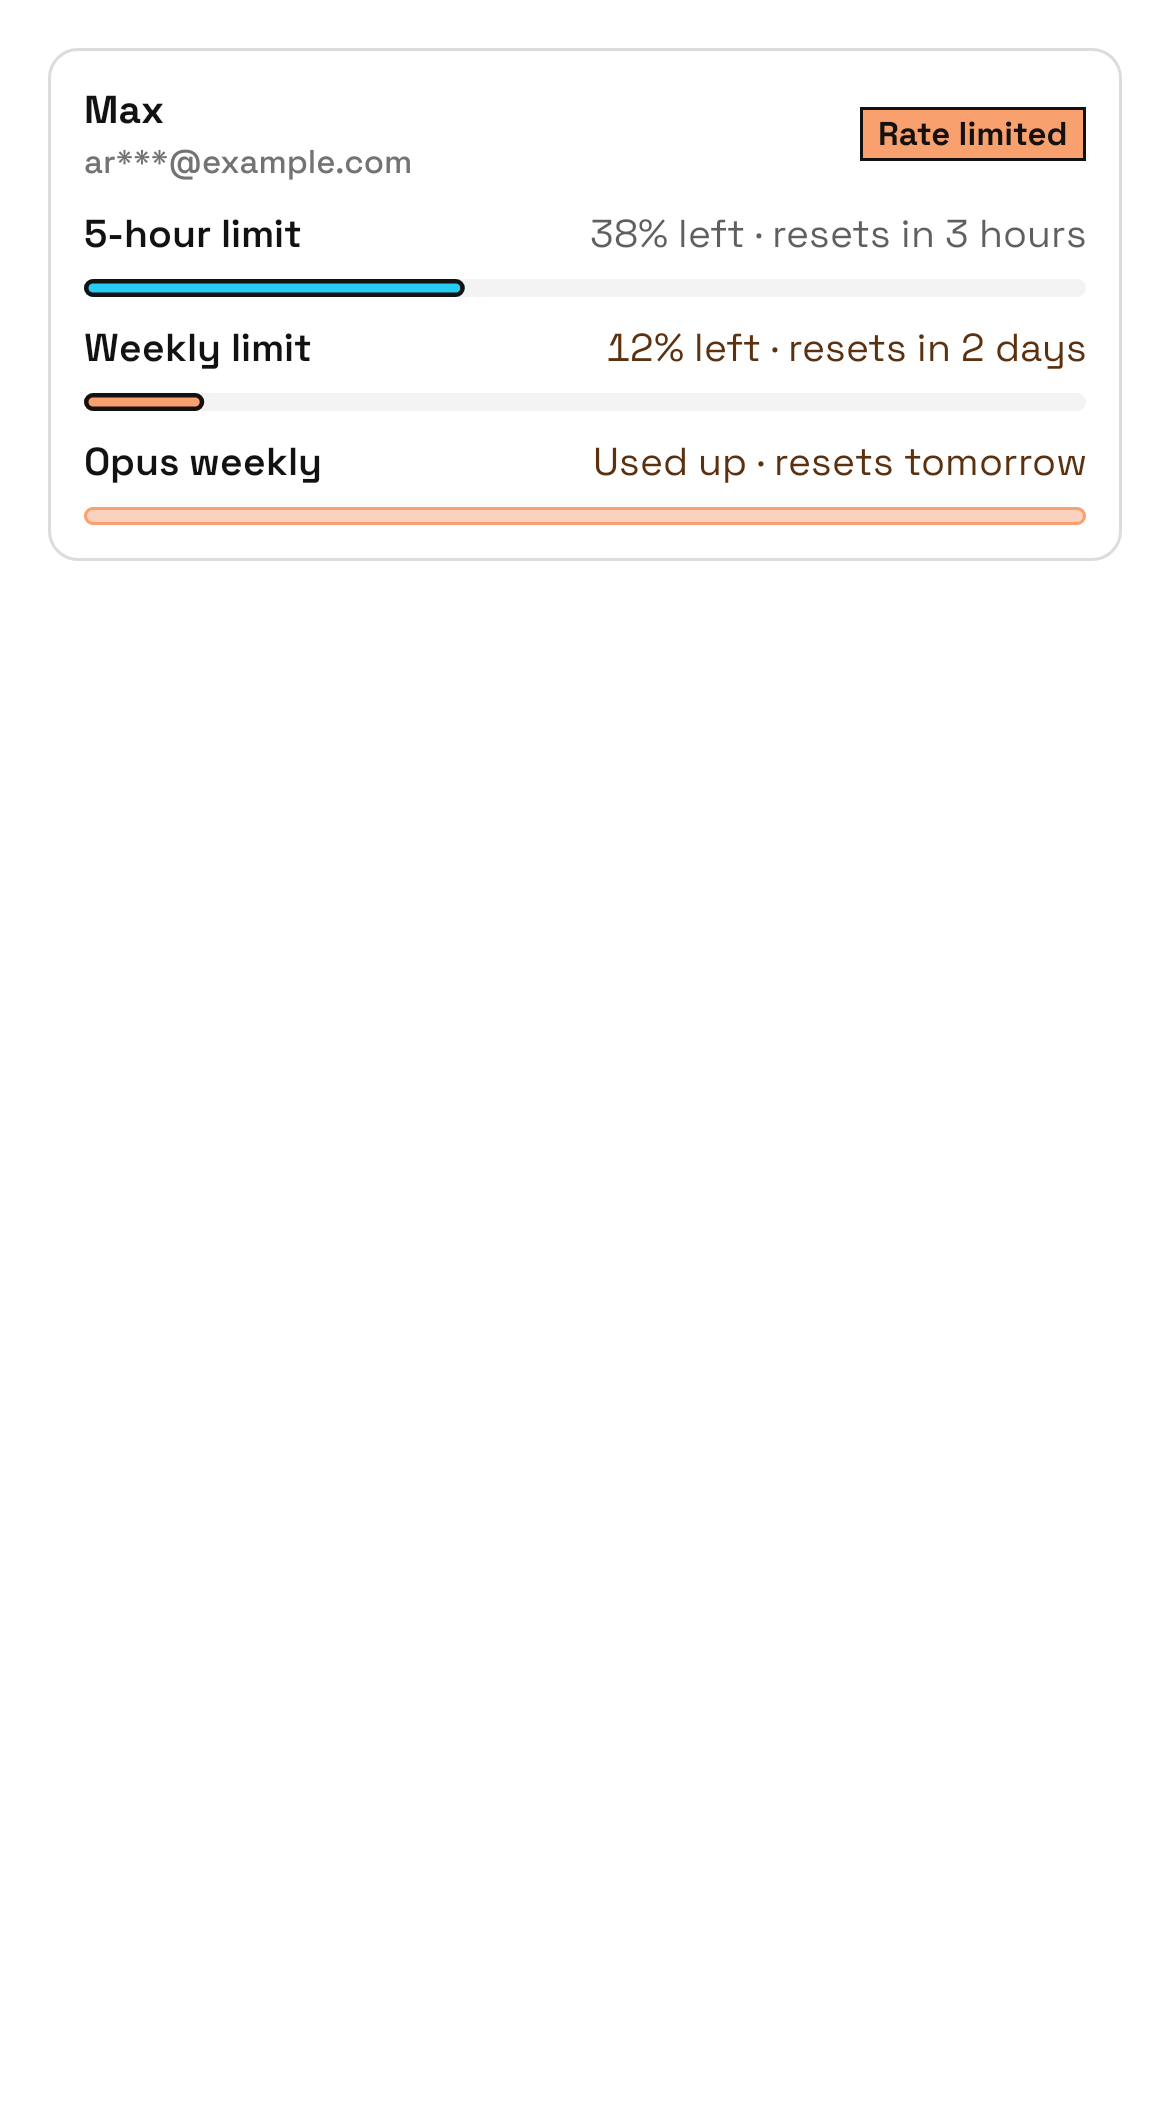
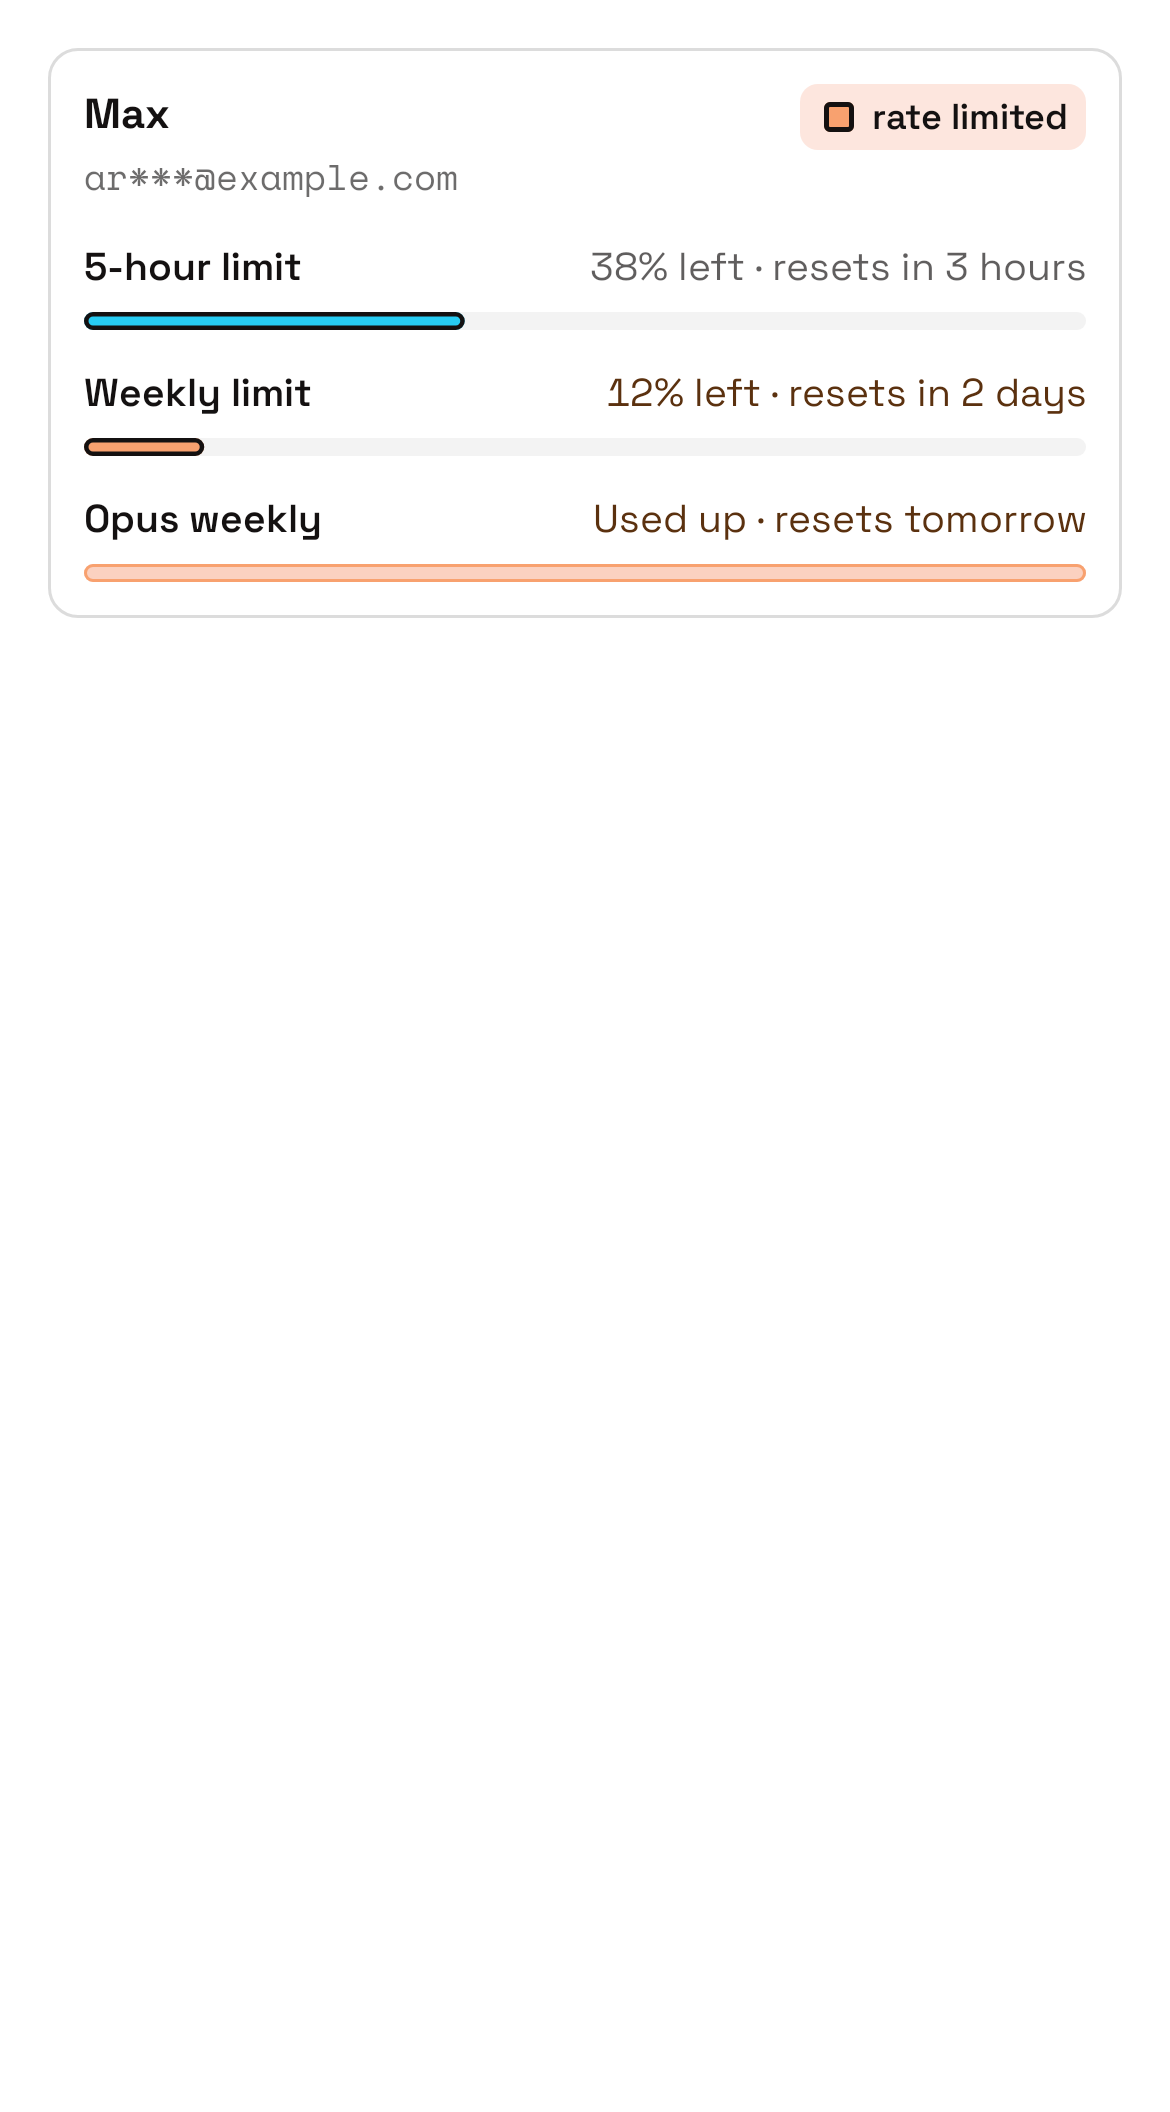
fix(members): the agent's usage card is the Computers account block
The card's head was an older hand-made copy (square black-framed badge in the
old accent colour). It now renders ComputerRuntimeUsageAccountBlock whole: plan,
account, the raft-ui soft StatusChip and the usage rows, so both places share one
implementation (artin, sindresorhus 2026-10-29).

Changed region(s): [[0.0308, 0.0312, 0.9231, 0.2812]]

diff --git a/compose/shared/src/commonMain/kotlin/build/raft/app/MembersAgentRuntimeUsage.kt b/compose/shared/src/commonMain/kotlin/build/raft/app/MembersAgentRuntimeUsage.kt
@@ -330,69 +330,10 @@ internal fun MembersRuntimeUsageAccountCard(
                 .padding(12.dp),
         verticalArrangement = Arrangement.spacedBy(8.dp)
     ) {
-        Row(
-            modifier = Modifier.fillMaxWidth(),
-            verticalAlignment = Alignment.CenterVertically,
-            horizontalArrangement = Arrangement.spacedBy(8.dp)
-        ) {
-            Column(modifier = Modifier.weight(1f), verticalArrangement = Arrangement.spacedBy(2.dp)) {
-                Text(
-                    text = account.planLabel ?: stringResource(Res.string.member_runtime_usage_account_fallback),
-                    style = RaftType.Caption.copy(fontSize = 13.sp, lineHeight = 17.sp)
-                        .withRaftFontWeight(FontWeight.Bold),
-                    color = RaftColor.TextBlack,
-                    maxLines = 1,
-                    overflow = TextOverflow.Ellipsis
-                )
-                account.identityLabel?.let { identity ->
-                    Text(
-                        text = identity,
-                        style = RaftType.Caption.copy(fontSize = 11.sp, lineHeight = 14.sp),
-                        color = RaftColor.TextMutedGray,
-                        maxLines = 1,
-                        overflow = TextOverflow.Ellipsis
-                    )
-                }
-            }
-            MembersRuntimeUsageHealthBadge(account.health)
-        }
-        if (account.health == RuntimeAccountUsageHealth.Unsupported) {
-            MembersRuntimeUsageNote(stringResource(Res.string.member_runtime_usage_unsupported))
-        }
-        // The same "X% left · resets …" line as the Computers page and the web (never "X% used").
-        account.windows.forEach { window -> ComputerRuntimeUsageWindowRow(window, timeContext) }
+        // The Computers sheet's account block: the raft-ui StatusChip and "X% left · resets …"
+        // rows, the same as the web (artin 10-29: no square badge, no "X% used").
+        ComputerRuntimeUsageAccountBlock(account, timeContext)
     }
-}
-
-@Composable
-private fun MembersRuntimeUsageHealthBadge(health: RuntimeAccountUsageHealth) {
-    val (label, color) =
-        when (health) {
-            RuntimeAccountUsageHealth.Ok -> stringResource(Res.string.member_runtime_usage_health_ok) to RaftColor.AccentLime
-            RuntimeAccountUsageHealth.RateLimited ->
-                stringResource(Res.string.member_runtime_usage_health_rate_limited) to RaftColor.AccentOrange
-            RuntimeAccountUsageHealth.ReauthRequired ->
-                stringResource(Res.string.member_runtime_usage_health_reauth_required) to RaftColor.AccentOrange
-            RuntimeAccountUsageHealth.Unsupported ->
-                stringResource(Res.string.member_runtime_usage_health_unsupported) to RaftColor.SurfaceCream
-            RuntimeAccountUsageHealth.Error ->
-                stringResource(Res.string.member_runtime_usage_health_error) to RaftColor.AccentRed
-            RuntimeAccountUsageHealth.Unknown ->
-                stringResource(Res.string.member_runtime_usage_health_unknown) to RaftColor.SurfaceCream
-        }
-    // Accent fills are stickers (fixed ink); the cream fill is a themed surface.
-    val sticker = color != RaftColor.SurfaceCream
-    Text(
-        text = label,
-        style = RaftType.Caption.copy(fontSize = 11.sp, lineHeight = 14.sp).withRaftFontWeight(FontWeight.Bold),
-        color = if (sticker) RaftColor.StickerInk else RaftColor.TextBlack,
-        maxLines = 1,
-        modifier =
-            Modifier
-                .background(color)
-                .border(RaftAppStroke.Thin, if (sticker) RaftColor.StickerInk else RaftColor.BorderBlack)
-                .padding(horizontal = 6.dp, vertical = 2.dp)
-    )
 }
 
 @Composable

diff --git a/compose/shared/src/commonMain/kotlin/build/raft/app/ComputerRuntimeUsageChip.kt b/compose/shared/src/commonMain/kotlin/build/raft/app/ComputerRuntimeUsageChip.kt
@@ -536,7 +536,7 @@ private fun ComputerRuntimeUsageSnapshot(read: RuntimeAccountUsageRead.Available
 }
 
 @Composable
-private fun ComputerRuntimeUsageAccountBlock(account: RuntimeAccountUsageAccount, timeContext: RaftTimeContext?) {
+internal fun ComputerRuntimeUsageAccountBlock(account: RuntimeAccountUsageAccount, timeContext: RaftTimeContext?) {
     val colors = RaftTheme.colors
     val typography = RaftTheme.typography
     Column(Modifier.fillMaxWidth(), verticalArrangement = Arrangement.spacedBy(12.dp)) {
